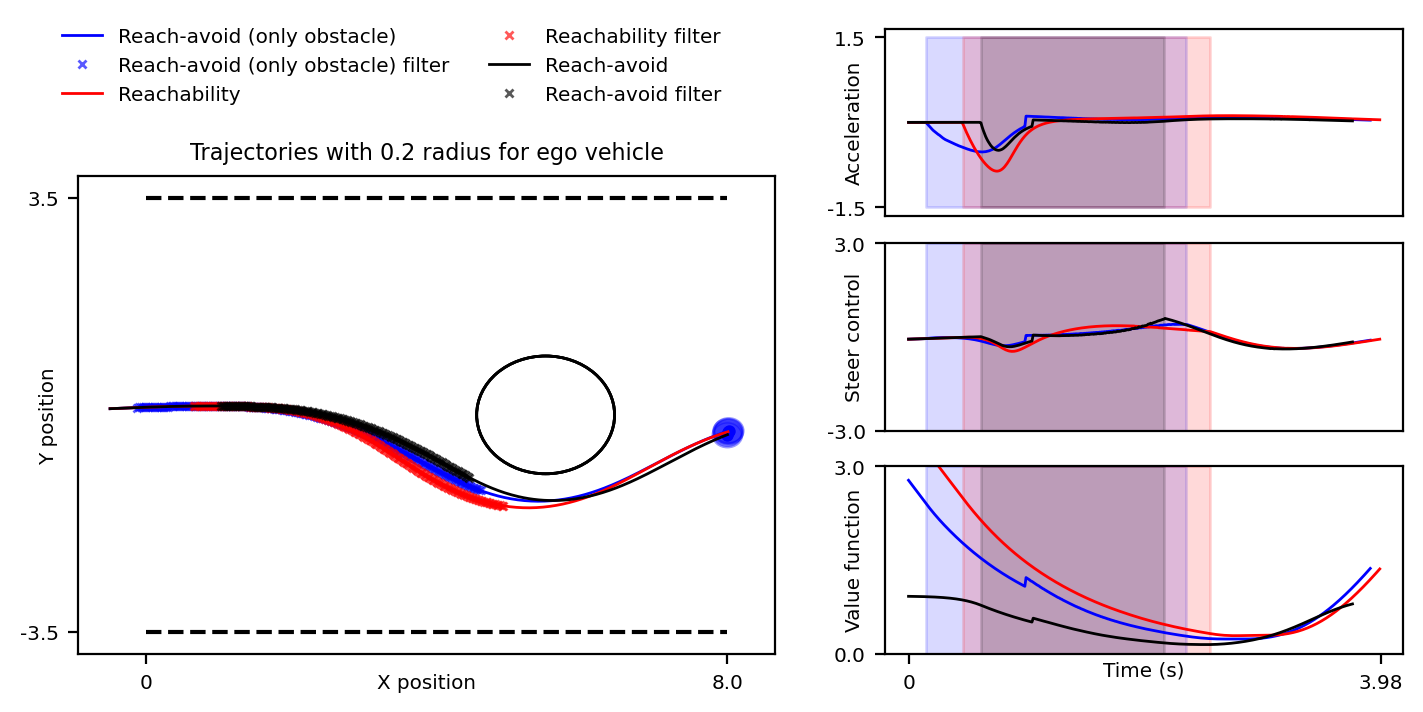
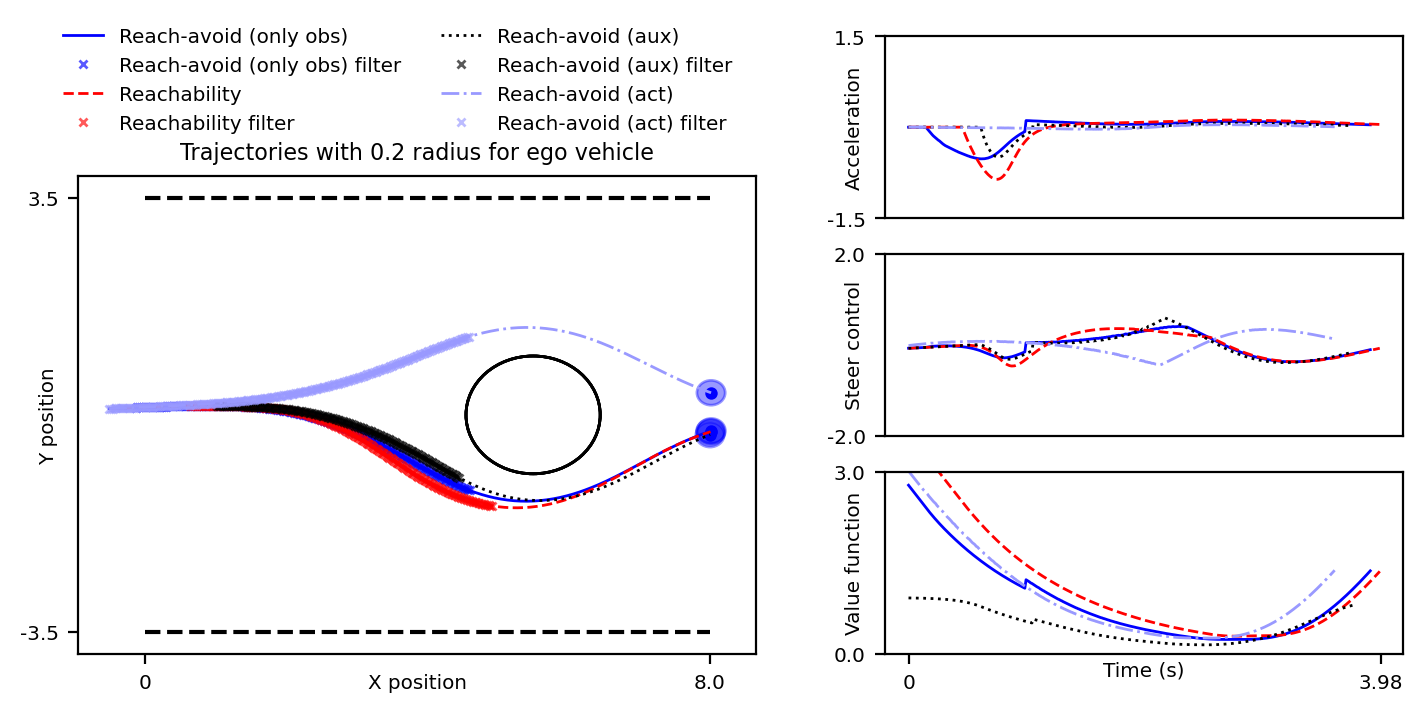
update figures

diff --git a/plot_reachability_vs_reachavoid_with_single_obstacle.py b/plot_reachability_vs_reachavoid_with_single_obstacle.py
@@ -18,9 +18,9 @@ os.environ["CUDA_VISIBLE_DEVICES"] = " "
 jax.config.update('jax_platform_name', 'cpu')
 
 fig = plt.figure(layout='constrained', figsize=(7.0, 3.4))
-colorlist = [(0.0, 0, 1.0, 1), (1.0, 0.0, 0.0, 1.0), (0, 0, 0, 0.8)]
-labellist = ['Reach-avoid (only obstacle)', 'Reachability', 'Reach-avoid']
-stylelist = ['solid', 'solid', 'solid']
+colorlist = [(0.0, 0, 1.0, 1), (1.0, 0.0, 0.0, 1.0), (0, 0, 0, 0.8), (0.6, 0.6, 1.0, 1.0)]
+labellist = ['Reach-avoid (only obs)', 'Reachability', 'Reach-avoid (aux)', 'Reach-avoid (act)']
+stylelist = ['solid', 'dashed', 'dotted', 'dashdot']
 legend_fontsize = 7.2
 
 ########## Reach avoid with only obstacle ############
@@ -100,6 +100,7 @@ config_cost.TRACK_WIDTH_LEFT = road_boundary
 config_env.TRACK_WIDTH_RIGHT = road_boundary
 config_env.TRACK_WIDTH_LEFT = road_boundary
 config_agent.FILTER_TYPE = 'SoftCBF'
+action_space = np.array(config_agent.ACTION_RANGE, dtype=np.float32)
 
 env = CarSingle5DEnv(config_env, config_agent, config_cost)
 env.render_obs(ax=ax, c='k')
@@ -107,6 +108,33 @@ env.render_obs(ax=ax, c='k')
 out_folder, plot_tag, config_agent = run_ddp_cbf(config_file, road_boundary, filter_type='SoftCBF', is_task_ilqr=True, line_search='baseline')
 plot_softcbf_data_reachavoid_constraints = np.load(os.path.join(out_folder, f"road_boundary={road_boundary}/SoftCBF/figure/save_data.npy"), allow_pickle=True)
 plot_softcbf_data_reachavoid_constraints = plot_softcbf_data_reachavoid_constraints.ravel()[0]
+
+########## Reach-avoid with reduced actuation ############
+config_file = './test_configs/reachavoid/test_config_cbf_reachavoid_single_obstacle_bic5D_singular_reduced_actuation.yaml'
+
+# Load the config to get key parameters needed for plot generation.
+config = load_config(config_file)
+config_env = config['environment']
+config_agent = config['agent']
+config_solver = config['solver']
+config_cost = config['cost']
+config_cost.N = config_solver.N
+config_cost.V_MIN = config_agent.V_MIN
+config_cost.DELTA_MIN = config_agent.DELTA_MIN
+config_cost.V_MAX = config_agent.V_MAX
+config_cost.DELTA_MAX = config_agent.DELTA_MAX
+config_cost.TRACK_WIDTH_RIGHT = road_boundary
+config_cost.TRACK_WIDTH_LEFT = road_boundary
+config_env.TRACK_WIDTH_RIGHT = road_boundary
+config_env.TRACK_WIDTH_LEFT = road_boundary
+config_agent.FILTER_TYPE = 'SoftCBF'
+
+env = CarSingle5DEnv(config_env, config_agent, config_cost)
+env.render_obs(ax=ax, c='k')
+
+out_folder, plot_tag, config_agent = run_ddp_cbf(config_file, road_boundary, filter_type='SoftCBF', is_task_ilqr=True, line_search='baseline')
+plot_softcbf_data_reachavoid_actuation = np.load(os.path.join(out_folder, f"road_boundary={road_boundary}/SoftCBF/figure/save_data.npy"), allow_pickle=True)
+plot_softcbf_data_reachavoid_actuation = plot_softcbf_data_reachavoid_actuation.ravel()[0]
 
 # Plot everything for visualizing in report.
 plot_actions_list = []
@@ -132,6 +160,12 @@ plot_obses_list.append( np.array(plot_softcbf_data_reachavoid_constraints['obses
 plot_obses_complete_filter_list.append( np.array(plot_softcbf_data_reachavoid_constraints['complete_indices'] ) )
 plot_obses_barrier_filter_list.append( np.array(plot_softcbf_data_reachavoid_constraints['barrier_indices'] ) )
 plot_values_list.append( np.array(plot_softcbf_data_reachavoid_constraints['values'] ) )
+
+plot_actions_list.append( np.array(plot_softcbf_data_reachavoid_actuation['actions']) )
+plot_obses_list.append( np.array(plot_softcbf_data_reachavoid_actuation['obses'] ) )
+plot_obses_complete_filter_list.append( np.array(plot_softcbf_data_reachavoid_actuation['complete_indices'] ) )
+plot_obses_barrier_filter_list.append( np.array(plot_softcbf_data_reachavoid_actuation['barrier_indices'] ) )
+plot_values_list.append( np.array(plot_softcbf_data_reachavoid_actuation['values'] ) )
 
 for idx, obs_data in enumerate(plot_obses_list):
     sc = ax.plot(
@@ -173,7 +207,6 @@ axes = subfigs[1].subplots(3, 1)
 
 maxsteps = 0
 dt = config_agent.DT
-action_space = np.array(config_agent.ACTION_RANGE, dtype=np.float32)
 for idx, controls_data in enumerate(plot_actions_list):
     nsteps = controls_data.shape[0]
     maxsteps = np.maximum(maxsteps, nsteps)
@@ -186,12 +219,12 @@ for idx, controls_data in enumerate(plot_actions_list):
                     alpha = 1.0, linewidth=1.0, linestyle=stylelist[idx])
     axes[2].plot(x_times, plot_values_list[idx], label=labellist[int(idx)], c=colorlist[int(idx)], 
                     alpha = 1.0, linewidth=1.0, linestyle=stylelist[idx])
-    axes[0].fill_between(x_times, action_space[0, 0], action_space[0, 1], 
-                            where=fillarray[0:nsteps], color=colorlist[int(idx)], alpha=0.15)
-    axes[1].fill_between(x_times, action_space[1, 0], action_space[1, 1], 
-                            where=fillarray[0:nsteps], color=colorlist[int(idx)], alpha=0.15)
-    axes[2].fill_between(x_times, action_space[1, 0], action_space[1, 1], 
-                            where=fillarray[0:nsteps], color=colorlist[int(idx)], alpha=0.15)
+    # axes[0].fill_between(x_times, action_space[0, 0], action_space[0, 1], 
+    #                         where=fillarray[0:nsteps], color=colorlist[int(idx)], alpha=0.15)
+    # axes[1].fill_between(x_times, action_space[1, 0], action_space[1, 1], 
+    #                         where=fillarray[0:nsteps], color=colorlist[int(idx)], alpha=0.15)
+    # axes[2].fill_between(x_times, action_space[1, 0], action_space[1, 1], 
+    #                         where=fillarray[0:nsteps], color=colorlist[int(idx)], alpha=0.15)
 
     #axes[0].set_xlabel('Time index', fontsize=legend_fontsize)
     axes[0].set_ylabel('Acceleration', fontsize=legend_fontsize)
@@ -208,10 +241,14 @@ for idx, controls_data in enumerate(plot_actions_list):
     axes[1].set_ylabel('Steer control', fontsize=legend_fontsize)
     #axes[1].grid(True)
     axes[1].set_xticks(ticks=[], labels=[], fontsize=legend_fontsize)
-    axes[1].set_yticks(ticks=[action_space[1, 0], action_space[1, 1]], 
-                        labels=[action_space[1, 0], action_space[1, 1]], 
+    # axes[1].set_yticks(ticks=[action_space[1, 0], action_space[1, 1]], 
+    #                     labels=[action_space[1, 0], action_space[1, 1]], 
+    #                     fontsize=legend_fontsize)
+    axes[1].set_yticks(ticks=[-2.0, 2.0], 
+                        labels=[-2.0, 2.0], 
                         fontsize=legend_fontsize)
-    axes[1].set_ylim([action_space[1, 0], action_space[1, 1]])
+    #axes[1].set_ylim([action_space[1, 0], action_space[1, 1]])
+    axes[1].set_ylim([-2.0, 2.0])
     #axes[1].legend(fontsize=legend_fontsize)
     axes[1].yaxis.set_label_coords(-0.04, 0.5)
     axes[1].xaxis.set_label_coords(0.5, -0.04)
